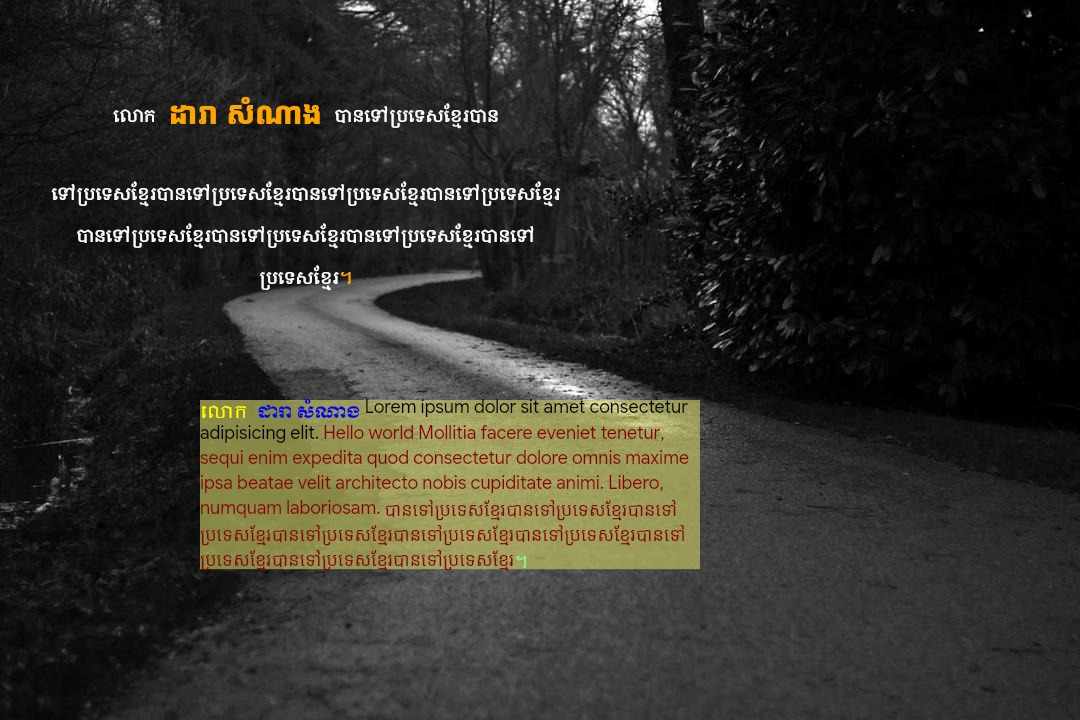
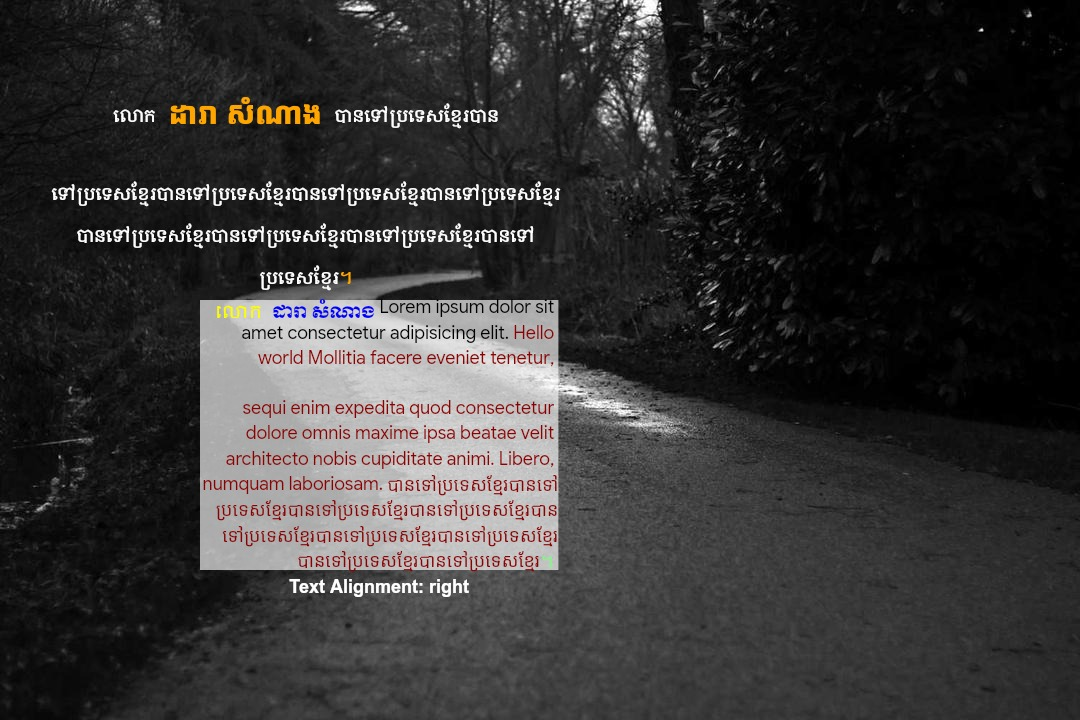
animate

Changed region(s): [[0.1833, 0.3972, 0.6722, 0.825]]

diff --git a/src/canvas.js b/src/canvas.js
@@ -12,11 +12,16 @@ export function drawStuffOnCanvas(canvas, { width, height, backgroundImage }) {
     ctx.drawImage(backgroundImage, 0, 0, width, height);
   }
 
+  const textBoxWidth = 350 + (150 * (1 + Math.sin(Date.now() / 500))) / 2;
+  const positions = ["left", "center", "right"];
+  const textAlignment =
+    positions[Math.round((2 * (1 + Math.sin(Date.now() / 3000))) / 2)];
+
   const block = textEngine.create(ctx, {
-    top: 400,
+    top: 300,
     left: 200,
-    width: 500,
-    textAlignment: "left",
+    width: textBoxWidth,
+    textAlignment,
     lineHeight: 1.4,
     spans: [
       {
@@ -40,14 +45,14 @@ export function drawStuffOnCanvas(canvas, { width, height, backgroundImage }) {
         fontWeight: "400",
       },
       {
-        text: " Hello world Mollitia facere eveniet tenetur, sequi enim expedita quod consectetur dolore omnis maxime ipsa beatae velit architecto nobis cupiditate animi. Libero, numquam laboriosam. បានទៅប្រទេសខ្មែរបានទៅប្រទេសខ្មែរបានទៅប្រទេសខ្មែរបានទៅប្រទេសខ្មែរបានទៅប្រទេសខ្មែរបានទៅប្រទេសខ្មែរបានទៅប្រទេសខ្មែរបានទៅប្រទេសខ្មែរបានទៅប្រទេសខ្មែរ",
+        text: " Hello world Mollitia facere eveniet tenetur, \n\nsequi enim expedita quod consectetur dolore omnis maxime ipsa beatae velit architecto nobis cupiditate animi. Libero, numquam laboriosam. បានទៅប្រទេសខ្មែរបានទៅប្រទេសខ្មែរបានទៅប្រទេសខ្មែរបានទៅប្រទេសខ្មែរបានទៅប្រទេសខ្មែរបានទៅប្រទេសខ្មែរបានទៅប្រទេសខ្មែរបានទៅប្រទេសខ្មែរបានទៅប្រទេសខ្មែរ",
         fontSize: 18,
         fontFamily: "Google Sans, Noto Sans Khmer, sans-serif",
         fillStyle: "darkred",
         fontWeight: "400",
       },
       {
-        text: "។",
+        text: "។ ",
         fontSize: 18,
         fontFamily: "Noto Serif Khmer, sans-serif",
         fillStyle: "lightgreen",
@@ -56,11 +61,30 @@ export function drawStuffOnCanvas(canvas, { width, height, backgroundImage }) {
     ],
   });
 
-  ctx.fillStyle = "rgba(200, 200, 100 ,.65)";
+  ctx.fillStyle = "rgba(255, 255, 255 , .65)";
 
   // compute height from text layout
-  ctx.fillRect(200, 400, 500, block.height());
+  ctx.fillRect(200, 300, textBoxWidth, block.height());
   block.draw();
+
+  textEngine
+    .create(ctx, {
+      top: 300 + block.height() + 10,
+      left: 200,
+      width: textBoxWidth,
+      textAlignment: "center",
+      lineHeight: 1.4,
+      spans: [
+        {
+          text: "Text Alignment: " + textAlignment,
+          fontSize: 18,
+          fontFamily: "sans-serif",
+          fillStyle: "white",
+          fontWeight: "bold",
+        },
+      ],
+    })
+    .draw();
 
   textEngine
     .create(ctx, {

diff --git a/src/App.jsx b/src/App.jsx
@@ -4,6 +4,7 @@ import { drawStuffOnCanvas } from "./canvas.js";
 function CanvasRenderer() {
   const canvasRef = useRef(null);
   const backgroundImageRef = useRef(null);
+  const deltaTimeRef = useRef(0)
 
   const draw = (canvas) => {
     const width = 1080;
@@ -27,6 +28,15 @@ function CanvasRenderer() {
     });
   };
 
+  function looper() {
+    if (Date.now() - deltaTimeRef.current >= 60) {
+      draw(canvasRef.current);
+      deltaTimeRef.current += 60;
+      deltaTimeRef.current = Date.now()
+    }
+    requestAnimationFrame(looper);
+  }
+
   useEffect(() => {
     const image = new Image();
     image.onload = () => {
@@ -39,7 +49,7 @@ function CanvasRenderer() {
     image.src =
       "https://fastly.picsum.photos/id/339/1080/720.jpg?hmac=g-NTwo5bYR4u--90DKzyHOXdeoEwuTF_RTQbQEHwfZY";
 
-    draw(canvasRef.current);
+    looper()
   }, []);
 
   const CanvasElement = useMemo(() => <canvas ref={canvasRef}></canvas>, []);
